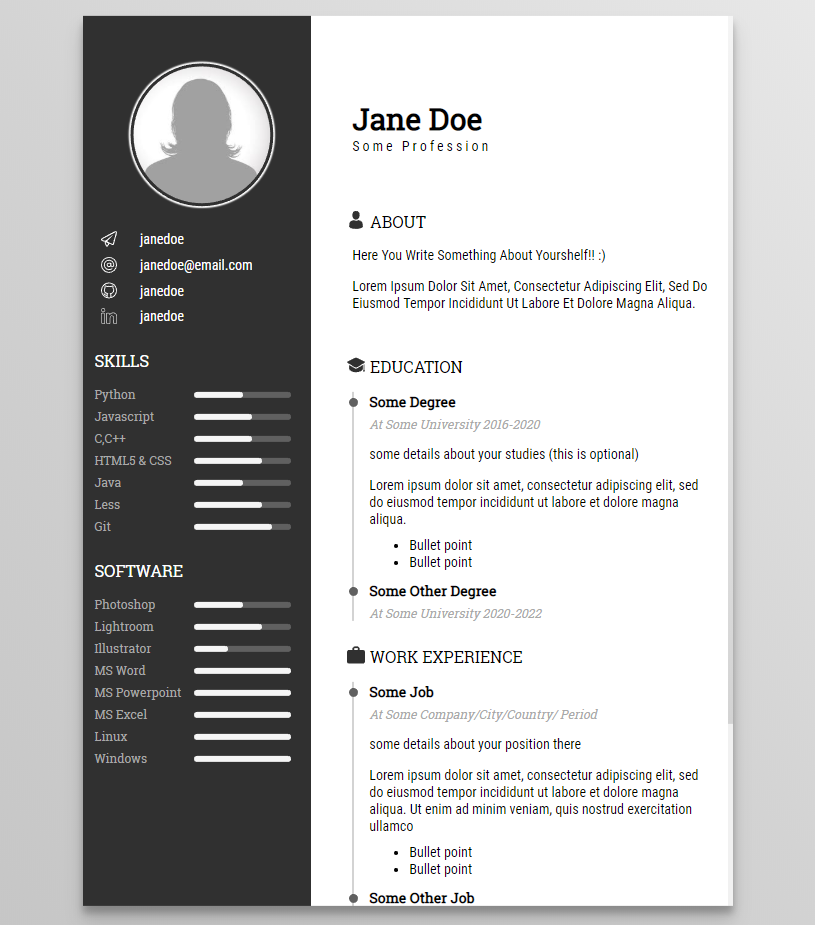
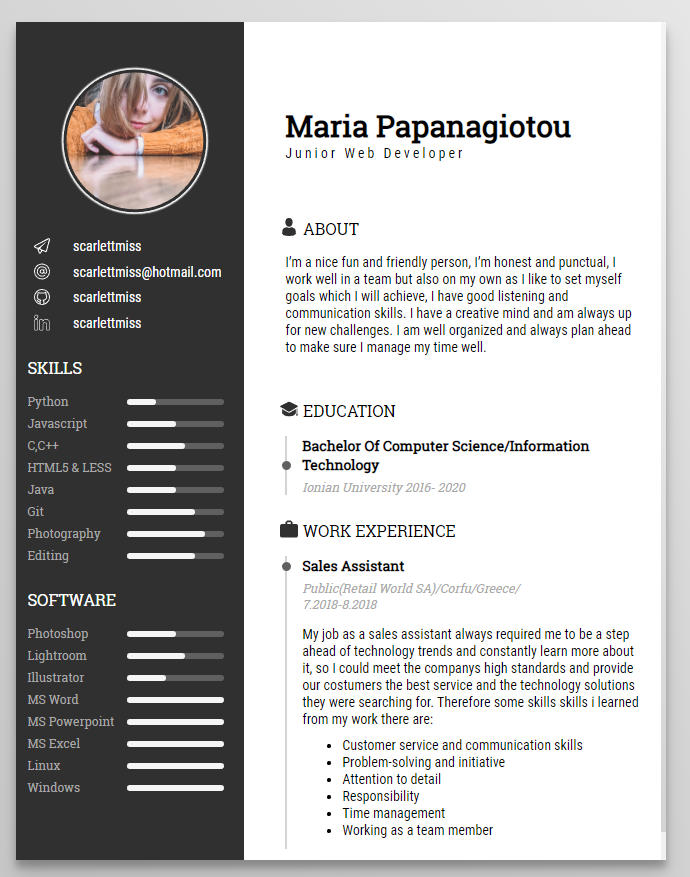
added images

diff --git a/README.md b/README.md
@@ -5,7 +5,7 @@
 
 Checkout the live demo [here](https://scarlettmiss.github.io/cv-template/).
 
-![preview of cv](assets/images/cv-template.png)
+![preview of cv](assets/images/cv-template-demo.png)
 
 ## Installation & setup guide
 
